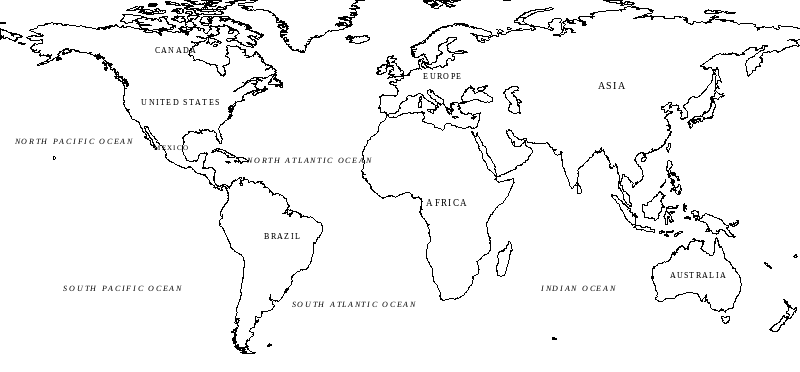
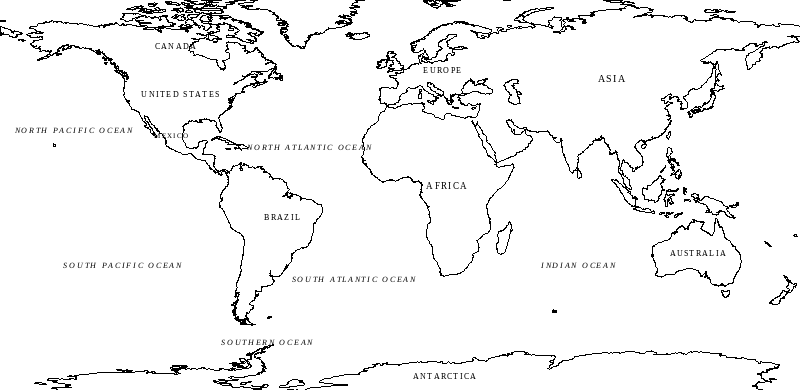
sharkmap: black and white only, show Antarctica, tighten the layout
Drops all colour and the latitude/longitude grid. The panel can show six
colours, but using two means every pixel is already exactly on-palette, so the
driver never dithers and every edge stays hard. Output is 97.6% pure black or
white, the remainder being anti-aliased text edges, where a one-pixel grey edge
dithers to a single black-or-white pixel anyway.

The ocean tint had to go on measurement rather than taste. The panel is ~159mm
wide for 800 pixels, so a pixel is 0.2mm, and the tightest usable lattice puts
blue dots 0.8mm apart while the eye resolves about 0.15mm at 50cm. The dots
stayed visible as dots instead of averaging into pale blue, appearing on screen
as a field of specks. No lattice is fine enough to fix that at this pixel size,
so a pale blue ocean is not reachable on this hardware.

The graticule is gone as well. It is conventional on an atlas plate, but at
800x480 it competed with the coastlines and the fins for the same few pixels,
and the fins are read against the continents rather than against coordinates.

Antarctica is now on the map. It was missing because latitude was cropped to
-62, not because anything covered it; the south now reaches -82, far enough for
the Antarctic coastline and the peninsula, so the map reads as a complete world.
162 degrees of latitude over 390 pixels is 2.41 px/degree against 2.22
horizontally, so the projection stays close to square.

The caption strip is 42px rather than 60px, which is what freed the height for
[…]

diff --git a/src/plugins/sharkmap/sharkmap.py b/src/plugins/sharkmap/sharkmap.py
@@ -492,8 +492,11 @@ class SharkMap(BasePlugin):
         draw.line([(0, header_height - 1), (width, header_height - 1)],
                   fill=BLACK, width=1)
 
-        self._draw_compass(draw, width * 0.055, header_height * 0.48,
-                           header_height * 0.32, scale)
+        # Smaller and nudged down from the earlier version: the rose plus its
+        # "N" needs to clear the top edge, and at radius 0.32 of the header the
+        # letter was being clipped.
+        self._draw_compass(draw, width * 0.055, header_height * 0.56,
+                           header_height * 0.24, scale)
 
         # The source credit iNaturalist's terms ask for, given the prominence a
         # decorative brand block would otherwise take.
@@ -517,7 +520,7 @@ class SharkMap(BasePlugin):
             tip = (cx + dx * radius * 0.5, cy + dy * radius * 0.5)
             draw.polygon([tip, (cx, cy - radius * 0.13), (cx, cy + radius * 0.13)],
                          fill=BLACK)
-        draw.text((cx, cy - radius - 6 * scale), "N",
+        draw.text((cx, cy - radius - 5 * scale), "N",
                   font=self._font(BOLD, 8 * scale), fill=BLACK, anchor="mm")
 
     @staticmethod
@@ -710,16 +713,16 @@ class SharkMap(BasePlugin):
         draw.rectangle([0, top, width, height], fill=WHITE)
         draw.line([(0, top), (width, top)], fill=BLACK, width=2)
 
-        margin = 22 * scale
+        margin = 34 * scale
         divider = width * 0.375
 
         # --- left: what it is
-        name_font = self._font(BOLD, 12 * scale)
-        sci_font = self._font(ITALIC, 11 * scale)
-        available = divider - margin * 2
+        name_font = self._font(BOLD, 11 * scale)
+        sci_font = self._font(ITALIC, 10 * scale)
+        available = divider - margin - 12 * scale
 
         common = (self._species_name(sighting) if sighting else "No recent sightings")
-        self._letterspace(draw, (margin, top + strip_height * 0.33),
+        self._letterspace(draw, (margin, top + strip_height * 0.32),
                           self._fit_text(draw, common.upper(), name_font, available),
                           name_font, BLACK, spacing=1.1 * scale, centre=False)
 
@@ -727,22 +730,23 @@ class SharkMap(BasePlugin):
         # which happens whenever iNaturalist has no common name for the taxon.
         scientific = (sighting or {}).get("scientific")
         if scientific and scientific.casefold() != common.casefold():
-            draw.text((margin, top + strip_height * 0.66),
+            draw.text((margin, top + strip_height * 0.72),
                       self._fit_text(draw, scientific, sci_font, available),
                       font=sci_font, fill=BLACK, anchor="lm")
 
-        draw.line([(divider, top + 10 * scale), (divider, height - 10 * scale)],
+        draw.line([(divider, top + 6 * scale), (divider, height - 6 * scale)],
                   fill=BLACK, width=1)
 
         # --- right: where, when, and how much to trust it
-        text_x = divider + 22 * scale
-        available = width - text_x - margin * 0.5
+        text_x = divider + 34 * scale
+        available = width - text_x - 12 * scale
 
-        line_font = self._font(REGULAR, 12 * scale)
-        detail_font = self._font(REGULAR, 9 * scale)
-        note_font = self._font(ITALIC, 9 * scale)
+        # Sized to fit three lines inside a 42px strip without crowding.
+        line_font = self._font(REGULAR, 11 * scale)
+        detail_font = self._font(REGULAR, 8 * scale)
+        note_font = self._font(ITALIC, 8 * scale)
 
-        draw.text((text_x, top + strip_height * 0.28),
+        draw.text((text_x, top + strip_height * 0.26),
                   self._fit_text(draw, self._where_when(sighting), line_font, available),
                   font=line_font, fill=BLACK, anchor="lm")
 
@@ -750,7 +754,7 @@ class SharkMap(BasePlugin):
                   self._fit_text(draw, self._provenance(sighting), detail_font, available),
                   font=detail_font, fill=BLACK, anchor="lm")
 
-        draw.text((text_x, top + strip_height * 0.81),
+        draw.text((text_x, top + strip_height * 0.82),
                   self._fit_text(draw, self._note_text(total_reported, lookback_days,
                                                        stale_since),
                                  note_font, available),

diff --git a/src/plugins/sharkmap/projection.py b/src/plugins/sharkmap/projection.py
@@ -25,20 +25,21 @@ CANVAS_WIDTH = 800
 CANVAS_HEIGHT = 480
 
 HEADER_HEIGHT = 48
-STRIP_HEIGHT = 60
+STRIP_HEIGHT = 42
 
 MAP_WIDTH = CANVAS_WIDTH
-MAP_HEIGHT = CANVAS_HEIGHT - HEADER_HEIGHT - STRIP_HEIGHT  # 372
+MAP_HEIGHT = CANVAS_HEIGHT - HEADER_HEIGHT - STRIP_HEIGHT  # 390
 MAP_TOP = HEADER_HEIGHT
 
 # Equirectangular bounds.
 #
-# The poles are cropped deliberately. Sharks are not reported from the high
-# Arctic or Antarctica, so a full -90..90 map spends about a fifth of its
-# vertical space on empty ice. Trimming to -62..80 gives the inhabited
-# latitudes more room and matches how printed atlases frame a world map.
+# The far north is still cropped -- nothing is reported from the high Arctic and
+# it is all ice -- but the south now reaches far enough to include the Antarctic
+# coastline, so the map reads as a complete world rather than one that stops
+# short. 162 degrees of latitude over 390 pixels is 2.41 px/degree against
+# 2.22 px/degree horizontally, so the projection is very close to square.
 LON_MIN, LON_MAX = -180.0, 180.0
-LAT_MIN, LAT_MAX = -62.0, 80.0
+LAT_MIN, LAT_MAX = -82.0, 80.0
 
 
 def project(lon, lat, width=MAP_WIDTH, height=MAP_HEIGHT):

diff --git a/src/plugins/sharkmap/tools/generate_assets.py b/src/plugins/sharkmap/tools/generate_assets.py
@@ -174,6 +174,7 @@ LAND_LABELS = [
     ("AFRICA", 21, 3, 9),
     ("ASIA", 95, 47, 10),
     ("AUSTRALIA", 134, -25, 8),
+    ("ANTARCTICA", 20, -76, 8),
 ]
 
 # Ocean names in italic. With everything in black, the italic is what
@@ -184,6 +185,7 @@ OCEAN_LABELS = [
     ("NORTH ATLANTIC OCEAN", -41, 19, 8),
     ("SOUTH ATLANTIC OCEAN", -21, -36, 8),
     ("INDIAN OCEAN", 80, -30, 8),
+    ("SOUTHERN OCEAN", -60, -62, 8),
 ]
 
 
